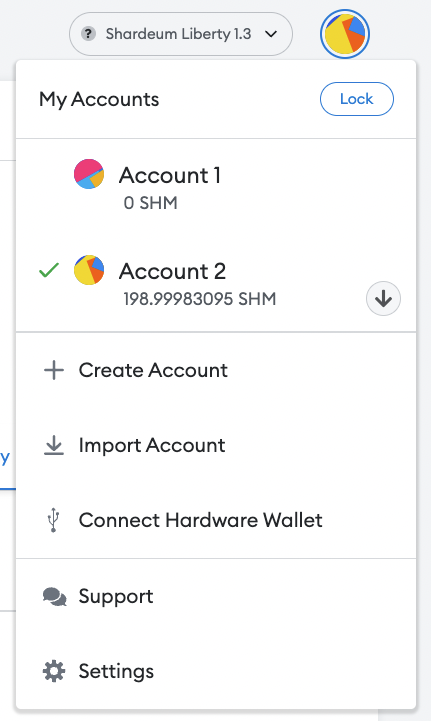
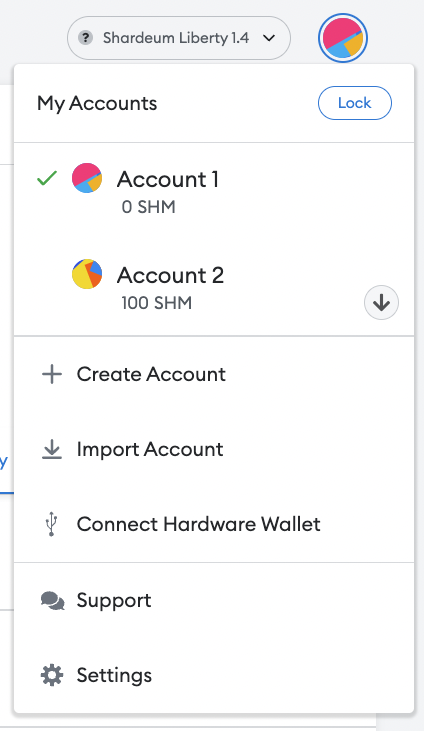
Updated for 1.4 & 2.0

diff --git a/src/components/FaucetDataCustom0.js b/src/components/FaucetDataCustom0.js
@@ -1,0 +1,57 @@
+import React from 'react';
+import axios from 'axios';
+
+export default class transactionList extends React.Component {
+  state = {
+    transactions: [],
+    cycle: [],
+    cycleFrom: [],
+    cycleTo: [],
+  }
+
+  componentDidMount() {
+    axios.get(`https://explorer.liberty20.shardeum.org/api/cycleinfo?count=1`).then(res => {
+      const cycle = res.data;
+      this.setState({cycle});
+      const currentCycle = this.state.cycle.cycles[0].counter;
+      const cycleFrom = Math.max(0,currentCycle - this.props.timestampFrom);
+      const cycleTo = currentCycle - this.props.timestampTo;
+      this.setState({cycleFrom});
+      this.setState({cycleTo});
+      axios.get(`https://explorer.liberty20.shardeum.org/api/transaction?address=0x1f1545eb7ee5c3c1c4784ee9dde5d26a9f76f77c&startCycle=${cycleFrom}&endCycle=${cycleTo}`).then(res => {
+        const transactions = res.data.totalTransactions;
+        this.setState({transactions});
+      })
+    })
+  }
+
+  componentWillReceiveProps() {
+    axios.get(`https://explorer.liberty20.shardeum.org/api/cycleinfo?count=1`).then(res => {
+      const cycle = res.data;
+      this.setState({cycle});
+      const currentCycle = this.state.cycle.cycles[0].counter;
+      const cycleFrom = Math.max(0,currentCycle - this.props.timestampFrom);
+      const cycleTo = currentCycle - this.props.timestampTo;
+      this.setState({cycleFrom});
+      this.setState({cycleTo});
+      axios.get(`https://explorer.liberty20.shardeum.org/api/transaction?address=0x1f1545eb7ee5c3c1c4784ee9dde5d26a9f76f77c&startCycle=${cycleFrom}&endCycle=${cycleTo}`).then(res => {
+        const transactions = res.data.totalTransactions;
+        this.setState({transactions});
+      })
+    })
+  }
+
+  render() {
+    if(this.state.transactions === undefined){
+    return (<div>Faucet Claims: 0 </div>)
+  }
+  else {
+    return (<div>
+      <p>Faucet Claims: {this.state.transactions}</p>
+      <p>SHM Issued: {this.state.transactions *100} </p>
+      <p>Cycle Range: {this.state.cycleFrom} - {this.state.cycleTo}  </p>
+
+    </div>)
+  }
+}
+}

diff --git a/src/components/FaucetDataDay0.js b/src/components/FaucetDataDay0.js
@@ -1,0 +1,40 @@
+import React from 'react';
+import axios from 'axios';
+
+export default class transactionList extends React.Component {
+  state = {
+    transactions: [],
+    cycle: [],
+    cycleFrom: [],
+    cycleTo: [],
+  }
+
+  componentDidMount() {
+    axios.get(`https://explorer.liberty20.shardeum.org/api/cycleinfo?count=1`).then(res => {
+      const cycle = res.data;
+      this.setState({cycle});
+      const currentCycle = this.state.cycle.cycles[0].counter;
+      const cycleFrom = Math.max(0,currentCycle - this.props.timestampFrom);
+      const cycleTo = currentCycle - this.props.timestampTo;
+      this.setState({cycleFrom});
+      this.setState({cycleTo});
+      axios.get(`https://explorer.liberty20.shardeum.org/api/transaction?address=0x1f1545eb7ee5c3c1c4784ee9dde5d26a9f76f77c&startCycle=${cycleFrom}&endCycle=${cycleTo}`).then(res => {
+        const transactions = res.data.totalTransactions;
+        this.setState({transactions});
+      })
+    })
+  }
+
+  render() {
+    if(this.state.transactions === undefined){
+    return (<div>Faucet Claims: 0 </div>)
+  }
+  else {
+    return (<div>
+      <p>Faucet Claims: {this.state.transactions}</p>
+      <p>SHM Issued: {this.state.transactions * 100} </p>
+      <p>Cycle Range: {this.state.cycleFrom} - {this.state.cycleTo}  </p>
+    </div>)
+  }
+}
+}

diff --git a/src/components/FaucetDataTotal0.js b/src/components/FaucetDataTotal0.js
@@ -1,0 +1,41 @@
+import React from 'react';
+import axios from 'axios';
+
+export default class transactionList extends React.Component {
+  state = {
+    transactions: [],
+    cycle: [],
+    cycleFrom: [],
+    cycleTo: [],
+  }
+
+  componentDidMount() {
+    axios.get(`https://explorer.liberty20.shardeum.org/api/cycleinfo?count=1`).then(res => {
+      const cycle = res.data;
+      this.setState({cycle});
+      const currentCycle = this.state.cycle.cycles[0].counter;
+      const cycleFrom = Math.max(0,currentCycle - this.props.timestampFrom);
+      const cycleTo = currentCycle - this.props.timestampTo;
+      this.setState({cycleFrom});
+      this.setState({cycleTo});
+      axios.get(`https://explorer.liberty20.shardeum.org/api/transaction?address=0x1f1545eb7ee5c3c1c4784ee9dde5d26a9f76f77c&startCycle=0&endCycle=${cycleTo}`).then(res => {
+        const transactions = res.data.totalTransactions;
+        this.setState({transactions});
+      })
+    })
+  }
+
+  render() {
+    if(this.state.transactions === undefined){
+    return (<div>Faucet Claims: 0 </div>)
+  }
+  else {
+    return (<div>
+      <p>Faucet Claims: {this.state.transactions}</p>
+      <p>SHM Issued: {this.state.transactions *100} </p>
+      <p>Cycle Range: 0 - {this.state.cycleTo}  </p>
+
+    </div>)
+  }
+}
+}

diff --git a/src/components/FaucetExplorer0.js b/src/components/FaucetExplorer0.js
@@ -1,8 +1,8 @@
 import React, {useState} from 'react';
 import DateRangePicker from '@wojtekmaj/react-daterange-picker';
-import FaucetDataCustom from '@site/src/components/FaucetDataCustom.js';
-import FaucetDataDay from '@site/src/components/FaucetDataDay.js';
-import FaucetDataTotal from '@site/src/components/FaucetDataTotal.js';
+import FaucetDataCustom from '@site/src/components/FaucetDataCustom0.js';
+import FaucetDataDay from '@site/src/components/FaucetDataDay0.js';
+import FaucetDataTotal from '@site/src/components/FaucetDataTotal0.js';
 import timestamp from 'unix-timestamp';
 import dayjs from 'dayjs';
 
@@ -35,7 +35,7 @@ export default function datePicker() {
           <h3>Custom Range</h3>
         <FaucetDataCustom timestampFrom={timestampFrom} timestampTo ={timestampTo} timeNow={timeNow} onChange={onChange}/>
 
-            <DateRangePicker onChange={onChange} value={value} minDate={new Date('2022, 09, 07')} maxDate={new Date()}/>
+            <DateRangePicker onChange={onChange} value={value} minDate={new Date('2022, 09, 03')} maxDate={new Date()}/>
         </div>
     </div>
 

diff --git a/docs/basics/Wallets/MetaMask/add-shardeum-network.md b/docs/basics/Wallets/MetaMask/add-shardeum-network.md
@@ -17,13 +17,26 @@ sidebar_position: 3
 
 ## Endpoint Information
 
+## Liberty 1.4
+
 | **Field**                         	| **Alphanet**               	
 |-----------------------------------	|----------------------------
-| **Network Name**                  	| Shardeum Liberty 1.3      	
+| **Network Name**                  	| Shardeum Liberty 1.4       	
 | **New RPC URL**                   	| https://liberty10.shardeum.org/                     
 | **Chain ID**                      	| 8080                        	
 | **Currency symbol (optional)**    	| SHM                       	
 | **Block Explorer URL (optional)** 	| https://explorer.liberty10.shardeum.org/
+
+## Liberty 2.0
+
+| **Field**                         	| **Alphanet**               	
+|-----------------------------------	|----------------------------
+| **Network Name**                  	| Shardeum Liberty 2.0       	
+| **New RPC URL**                   	| https://liberty20.shardeum.org/                     
+| **Chain ID**                      	| 8080                        	
+| **Currency symbol (optional)**    	| SHM                       	
+| **Block Explorer URL (optional)** 	| https://explorer.liberty20.shardeum.org/
+
 
 ## Save the Network
 

diff --git a/docs/basics/endpoints.md b/docs/basics/endpoints.md
@@ -5,10 +5,22 @@ sidebar_position: 2
 
 # Network Endpoints
 
+## Liberty 1.4
+
 | **Field**                         	| **Alphanet**               	
 |-----------------------------------	|----------------------------
-| **Network Name**                  	| Shardeum Liberty 1.3       	
+| **Network Name**                  	| Shardeum Liberty 1.4       	
 | **New RPC URL**                   	| https://liberty10.shardeum.org/                     
 | **Chain ID**                      	| 8080                        	
 | **Currency symbol (optional)**    	| SHM                       	
 | **Block Explorer URL (optional)** 	| https://explorer.liberty10.shardeum.org/
+
+## Liberty 2.0
+
+| **Field**                         	| **Alphanet**               	
+|-----------------------------------	|----------------------------
+| **Network Name**                  	| Shardeum Liberty 2.0       	
+| **New RPC URL**                   	| https://liberty20.shardeum.org/                     
+| **Chain ID**                      	| 8080                        	
+| **Currency symbol (optional)**    	| SHM                       	
+| **Block Explorer URL (optional)** 	| https://explorer.liberty20.shardeum.org/

diff --git a/docs/basics/claim.md b/docs/basics/claim.md
@@ -1,6 +1,6 @@
 ---
 title: Claim 100 Liberty SHM
-sidebar_position: 5
+sidebar_position: 6
 image: /img/claim_9.jpeg
 ---
 
@@ -8,7 +8,7 @@ image: /img/claim_9.jpeg
 
 1. After adding the Shardeum Liberty network to popular wallets such as MetaMask ([guide here](/basics/Wallets/MetaMask/add-shardeum-network)), you can claim 100 testnet SHM from Shardeum Liberty faucet. The SHM can then be used to deploy smart contracts and build dApps on Liberty.
 
-2. Visit the Shardeum Liberty 1.3 faucet: https://faucet.liberty10.shardeum.org/
+2. Visit the Shardeum Liberty faucet: https://faucet.liberty10.shardeum.org/ or https://faucet.liberty20.shardeum.org/
 
 ![claim_1](/img/claim/claim_1.png)
 
@@ -30,7 +30,7 @@ image: /img/claim_9.jpeg
 
 ![claim_5](/img/claim/claim_5.png)
 
-7. Paste the copied URL into the Shardeum Liberty 1.0 faucet page and request SHM.
+7. Paste the copied URL into the Shardeum Liberty faucet page and request SHM.
 
 ![claim_4](/img/claim/claim_4.png)
 ![claim_6](/img/claim/claim_6.png)

diff --git a/docs/developer/example-dapps/deploy-nft-smart-contract.md b/docs/developer/example-dapps/deploy-nft-smart-contract.md
@@ -504,4 +504,13 @@ Congrats! You just deployed a NFT smart contract to the Shardeum Liberty.
 
 ## Video Tutorial
 
-...Coming Soon
+<iframe id="ytplayer" type="text/html"
+  class="video"
+  src="https://www.youtube.com/embed/XI6vn2RpSUA"
+  allowFullScreen="allowFullScreen"
+  mozallowfullscreen="mozallowfullscreen"
+  msallowfullscreen="msallowfullscreen"
+  oallowfullscreen="oallowfullscreen"
+  webkitallowfullscreen="webkitallowfullscreen"
+  frameBorder="0">
+  </iframe>

diff --git a/docs/basics/explorer.md b/docs/basics/explorer.md
@@ -1,10 +1,12 @@
 ---
 title: Explorer
-sidebar_position: 4
+sidebar_position: 5
 ---
 
 # Explorer
 
-**Shardeum Liberty 1.3:** https://explorer.liberty10.shardeum.org/
+**Shardeum Liberty 1.4:** https://explorer.liberty10.shardeum.org/
+
+**Shardeum Liberty 2.0:** https://explorer.liberty20.shardeum.org/
 
 ![explorer_1](/img/explorer/explorer.png)

diff --git a/docs/release_notes.md b/docs/release_notes.md
@@ -4,6 +4,10 @@ title: Release Notes
 sidebar_position: 8
 
 ---
+##  **Shardeum Liberty 2.0 (September 9th)**
+
+##  **Shardeum Liberty 1.4 (September 7th)**
+
 ##  **Shardeum Liberty 1.3 (July 20th)**
 
 ##  **Shardeum Liberty 1.2 (July 4th)**
